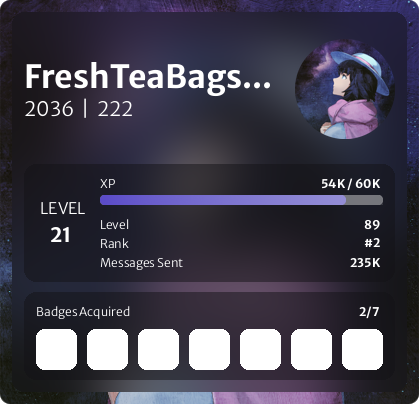
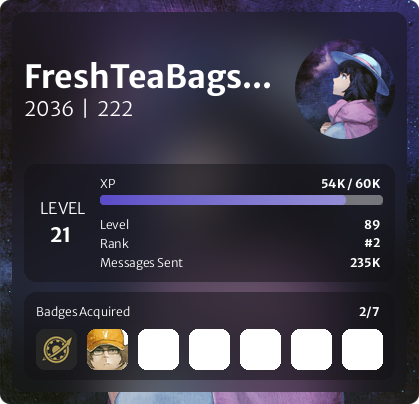
drawing badges

Changed region(s): [[0.0621, 0.802, 0.3103, 0.9208]]

diff --git a/app/utilities/drawingPlayground/master.py b/app/utilities/drawingPlayground/master.py
@@ -69,7 +69,10 @@ def drawProfileCard(avatar_url, nickname, discriminator, labmem_number, level, r
     for i in range(0,7):
         additional_x_offset = i * 10 + i * constants.badge_size[0]
         badge_offset = (constants.first_badge_offset[0] + additional_x_offset, constants.first_badge_offset[1])
-        background = drawBadgeBackgroundOnBackground(badge_offset, background)
+        if len(badges_list) > i:
+            background = drawBadgeImageOnBackground(badge_offset, background, badges_list[i])
+        else:
+            background = drawBadgeBackgroundOnBackground(badge_offset, background)
 
     # creating pfp circle https://stackoverflow.com/a/22336005/11273040 and pasting it on background
     bigsize = (pfp_original.size[0] * 2, pfp_original.size[1] * 2)
@@ -131,7 +134,6 @@ def drawProfileCard(avatar_url, nickname, discriminator, labmem_number, level, r
     draw.text((380, 238),"#2",font=font, align="right", anchor="rt")
     draw.text((380, 257),messages_sent,font=font, align="right", anchor="rt")
     draw.text((380, 306), str(len(badges_list)) + "/7",font=font, align="right", anchor="rt")
-
 
     # merging full_background (the one with alpha around it) with background (the one with all card contents in it)
     profile_card = background

diff --git a/app/utilities/drawingPlayground/utils.py b/app/utilities/drawingPlayground/utils.py
@@ -9,6 +9,13 @@ def drawBadgeBackgroundOnBackground(offset, background):
     background.paste(black_region, (offset[0], offset[1]), create_rounded_rectangle_mask(black_region, 8))
     return background
 
+def drawBadgeImageOnBackground(offset, background, badge_name):
+    badge_path = constants.badges_map[badge_name]
+    black_region = Image.open(badge_path)
+    black_region = black_region.resize(constants.badge_size, Image.Resampling.LANCZOS)
+    background.paste(black_region, (offset[0], offset[1]), create_rounded_rectangle_mask(black_region, 8))
+    return background
+
 def createSemiTransparentBlackRegionOnBackground(size, offset, background):
     cropped_img = background.crop((
         offset[0],

diff --git a/app/utilities/drawingPlayground/constants.py b/app/utilities/drawingPlayground/constants.py
@@ -26,6 +26,10 @@ xp_bar_offset = (100, 195)
 
 # IMAGE PATHS
 server_icon_path = 'server_icon.png'
+badges_map = {
+    "operation_elysian_veteran": "badges/operation_elysian_vet.png",
+    "daru69": "badges/daru69.png"
+}
 
 # FONTS
 default_font = "fonts/MerriweatherSansItalic/MerriweatherSans-VariableFont_wght.ttf"
